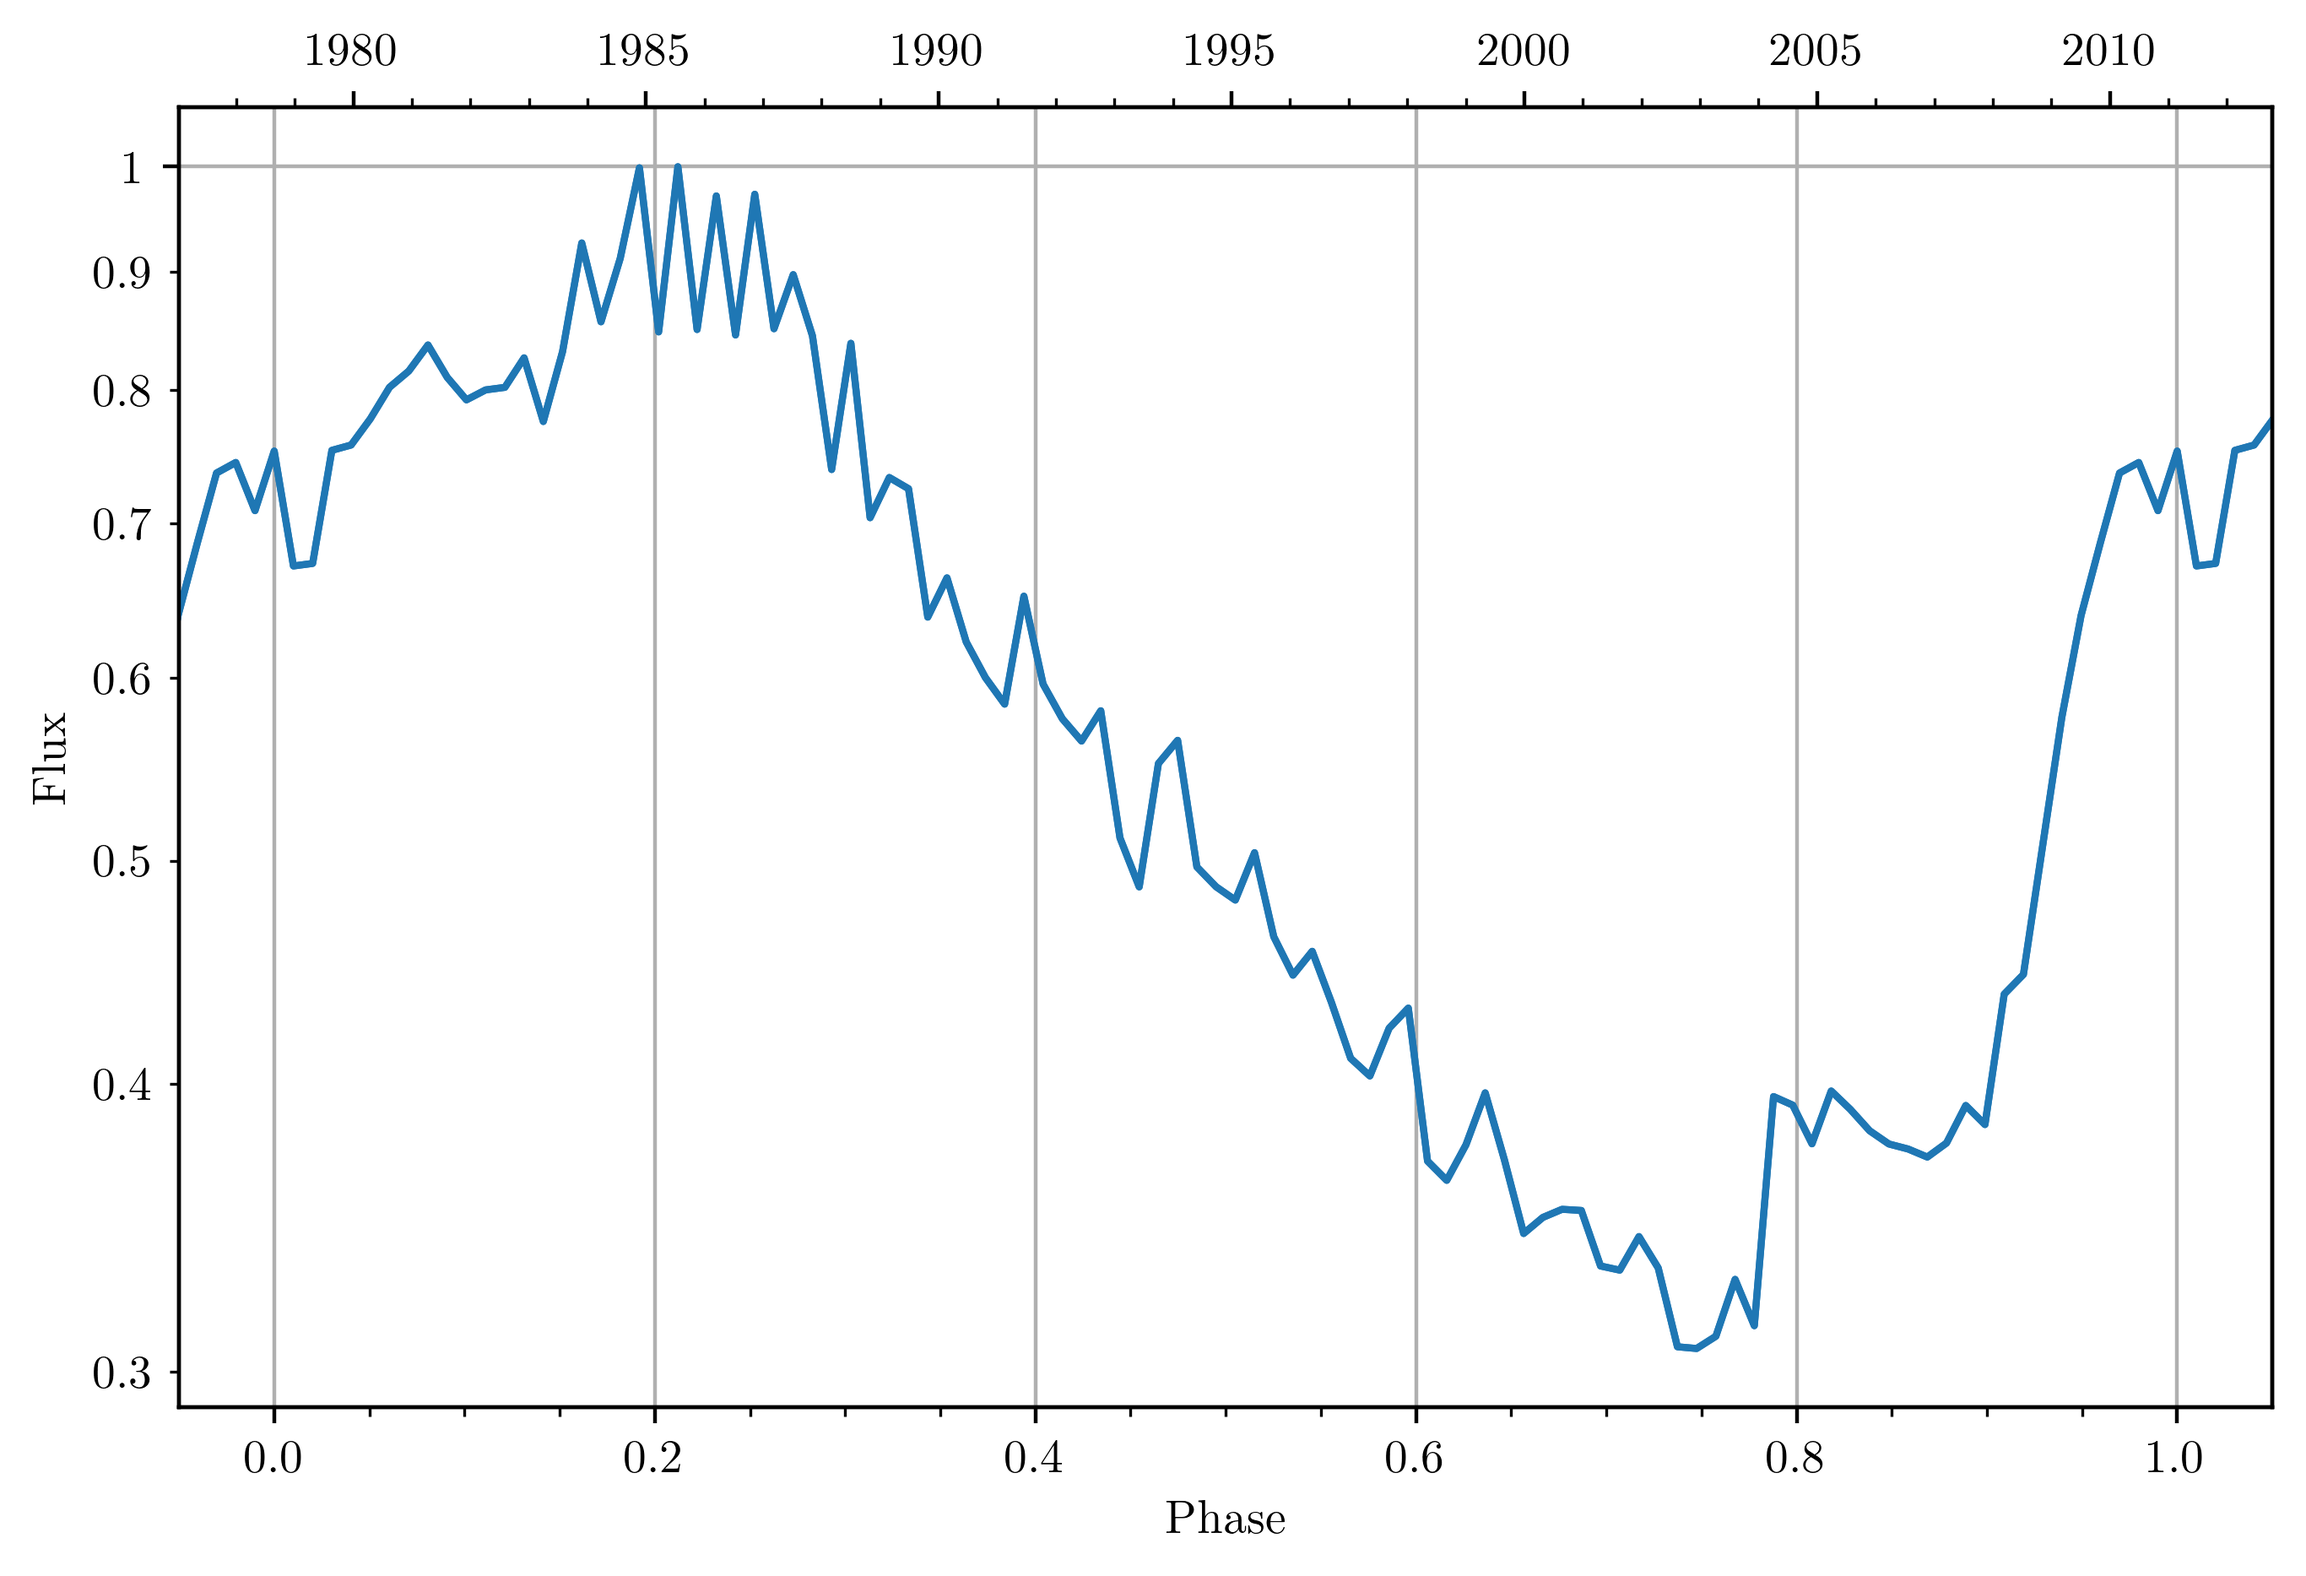
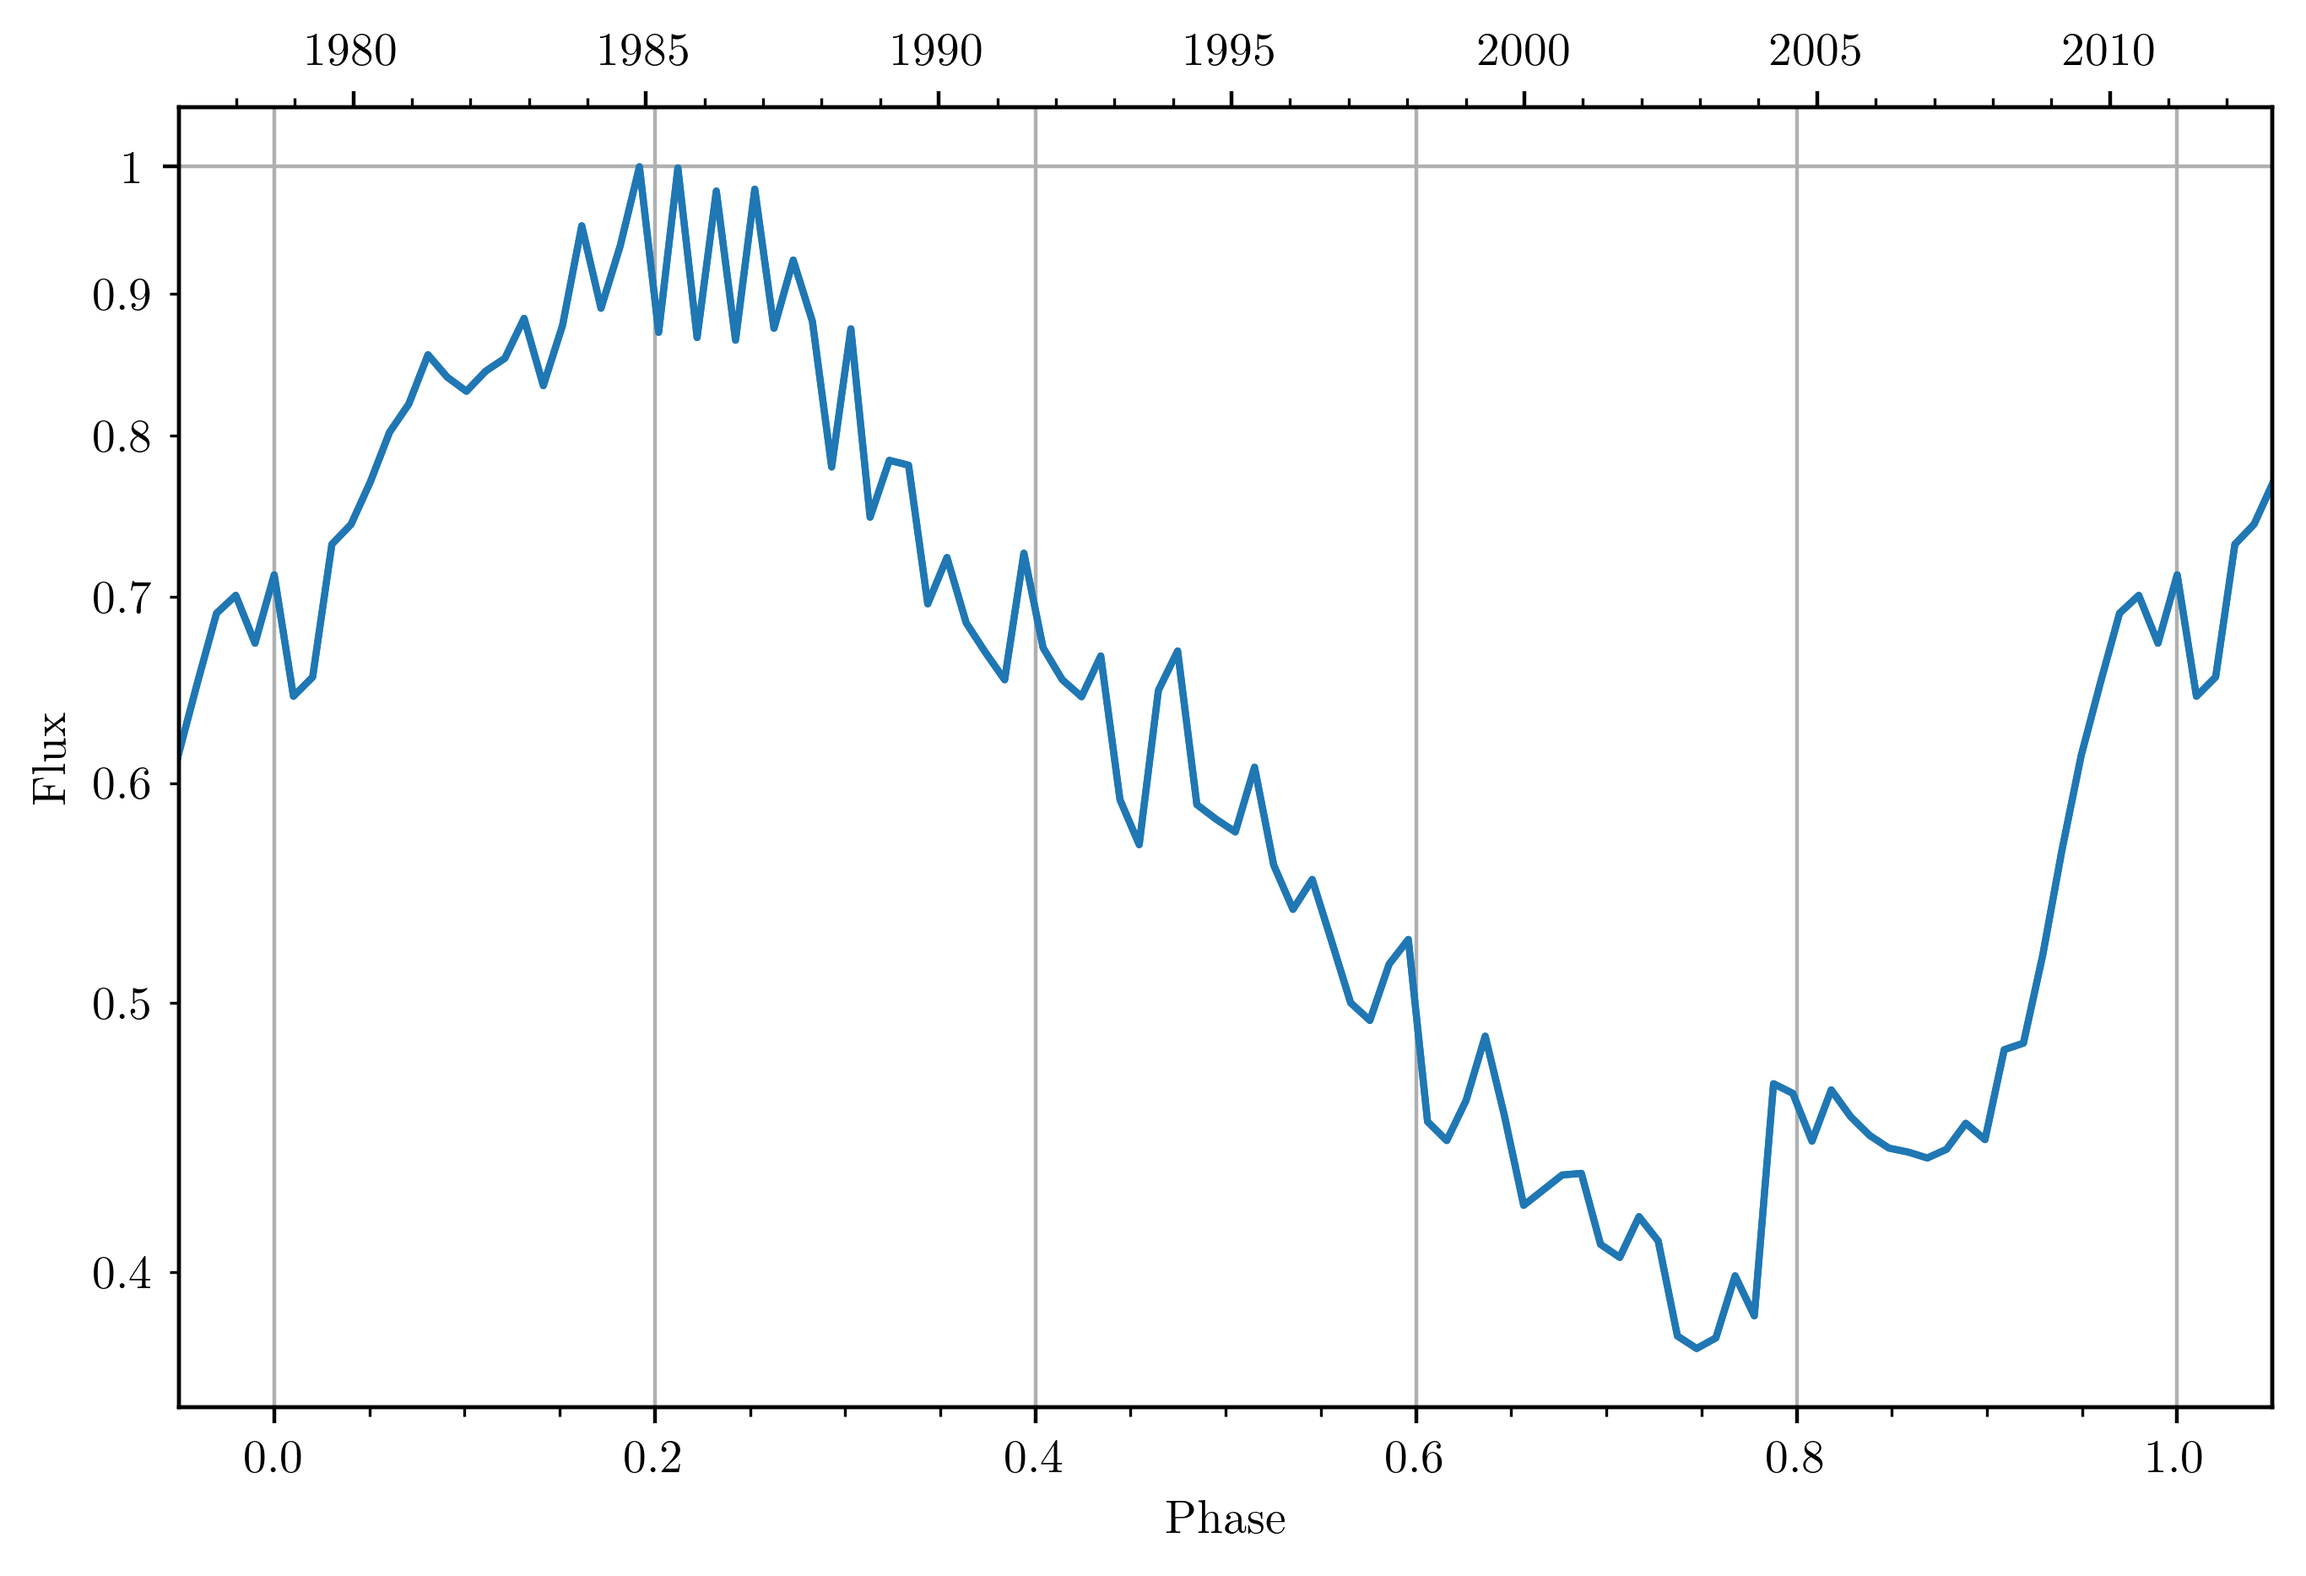
Light curve with brightest 0.1% of pixels

diff --git a/WR_Geom_Model.py b/WR_Geom_Model.py
@@ -1249,7 +1249,7 @@ def generate_lightcurve(stardata, n=100, shells=1):
         
         flat_fluxes = H.flatten()
         # # fluxes[i] = np.sum(np.sort(flat_fluxes)[-len(flat_fluxes)//100:])
-        fluxes[i] = np.mean(np.sort(flat_fluxes)[-20:])
+        fluxes[i] = np.mean(np.sort(flat_fluxes)[-50:])
     
     return phases, fluxes
 
